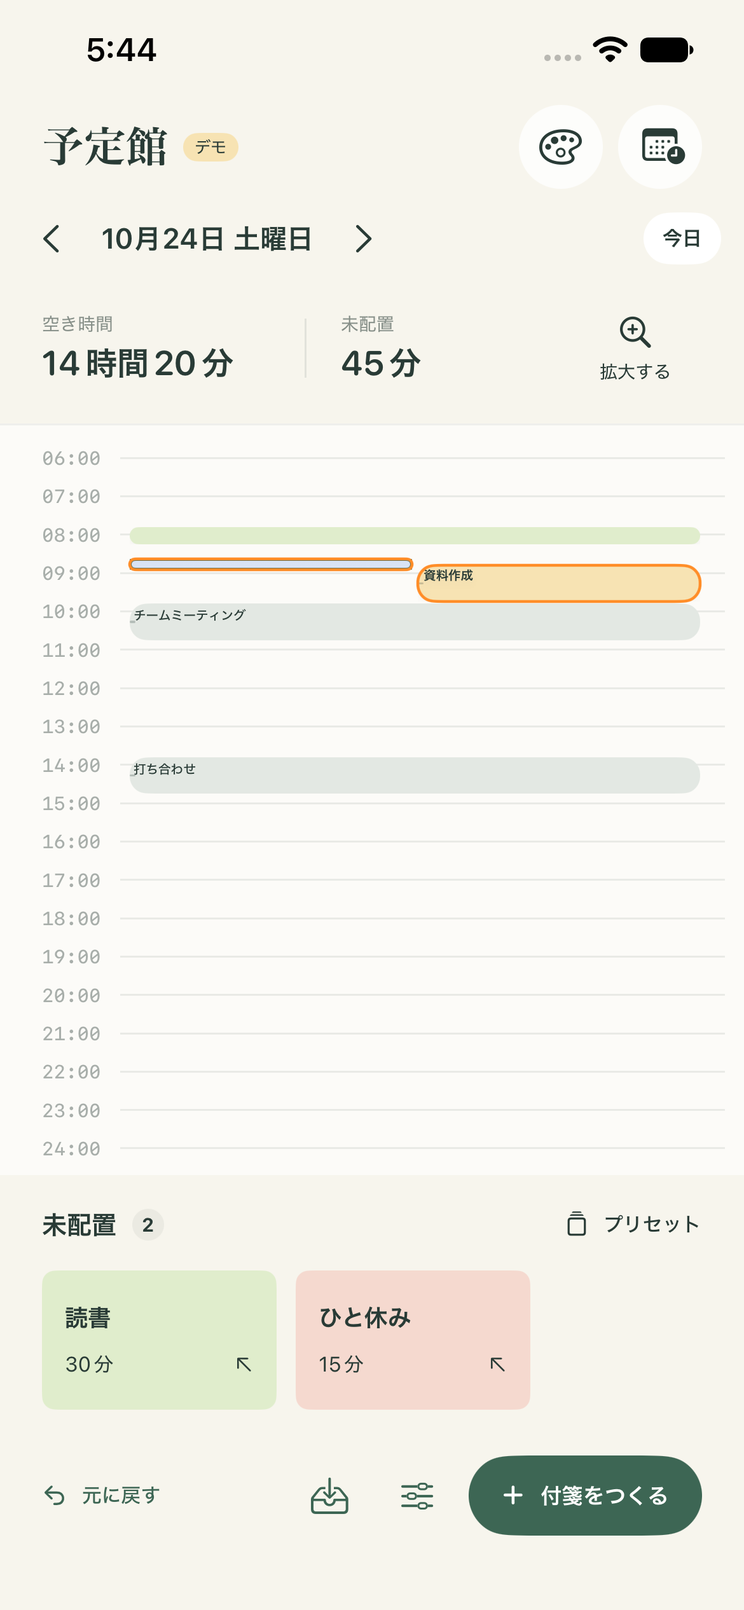
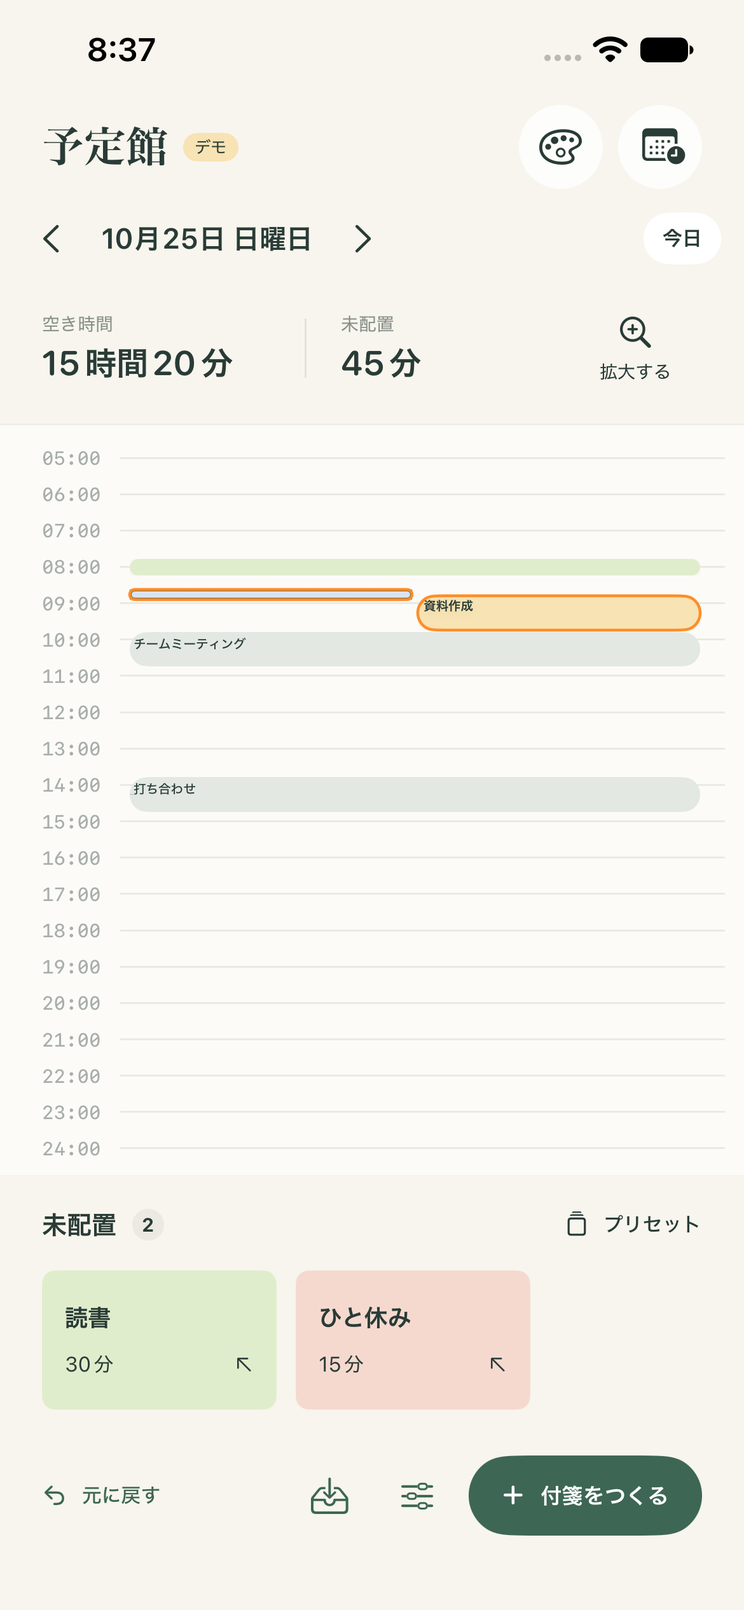
Extend daily planning range to 5 AM through midnight (#5)

diff --git a/docs/screenshots/index.html b/docs/screenshots/index.html
@@ -1,1 +1,1 @@
-<!doctype html><html lang="ja"><meta charset="utf-8"><meta name="viewport" content="width=device-width,initial-scale=1"><title>予定館・実機能確認</title><style>body{background:#f7f5ed;color:#293b35;font:15px system-ui;margin:32px}h1{font-size:24px}.grid{display:grid;grid-template-columns:repeat(auto-fit,minmax(240px,1fr));gap:28px}figure{margin:0}img{width:100%;max-width:390px;border-radius:24px;box-shadow:0 8px 32px #293b3520}figcaption{margin:12px 0 20px}p{line-height:1.8}</style><h1>予定館 / シミュレーター動作確認</h1><p>iPhone 17e・iOS 27。XCTestで実際に操作した画面です。デモ表記のある画面はサンプル予定、カレンダー画面はシミュレーターのEventKitに登録した検証用予定を使用しています。</p><div class="grid"><figure><a href="01-day-planner.png"><img src="01-day-planner.png" alt="01-day-planner"></a><figcaption>01-day-planner</figcaption></figure><figure><a href="02-presets.png"><img src="02-presets.png" alt="02-presets"></a><figcaption>02-presets</figcaption></figure><figure><a href="03-sticky-editor.png"><img src="03-sticky-editor.png" alt="03-sticky-editor"></a><figcaption>03-sticky-editor</figcaption></figure><figure><a href="04-overlap-after-drag.png"><img src="04-overlap-after-drag.png" alt="04-overlap-after-drag"></a><figcaption>04-overlap-after-drag</figcaption></figure><figure><a href="05-resize-overlap.png"><img src="05-resize-overlap.png" alt="05-resize-overlap"></a><figcaption>05-resize-overlap</figcaption></figure><figure><a href="06-day-overview.png"><img src="06-day-overview.png" alt="06-day-overview"></a><figcaption>06-day-overview</figcaption></figure><figure><a href="07-calendar-settings.png"><img src="07-calendar-settings.png" alt="07-calendar-settings"></a><figcaption>07-calendar-settings</figcaption></figure><figure><a href="08-real-calendar-events.png"><img src="08-real-calendar-events.png" alt="08-real-calendar-events"></a><figcaption>08-real-calendar-events</figcaption></figure><figure><a href="09-start-time-drag.png"><img src="09-start-time-drag.png" alt="09-start-time-drag"></a><figcaption>09-start-time-drag</figcaption></figure><figure><a href="10-swipe-next-day.png"><img src="10-swipe-next-day.png" alt="10-swipe-next-day"></a><figcaption>10-swipe-next-day</figcaption></figure><figure><a href="11-color-settings.png"><img src="11-color-settings.png" alt="11-color-settings"></a><figcaption>11-color-settings</figcaption></figure><figure><a href="12-named-color-picker.png"><img src="12-named-color-picker.png" alt="12-named-color-picker"></a><figcaption>12-named-color-picker</figcaption></figure><figure><a href="13-custom-colors.png"><img src="13-custom-colors.png" alt="13-custom-colors"></a><figcaption>13-custom-colors</figcaption></figure><figure><a href="14-expanded-color-picker.png"><img src="14-expanded-color-picker.png" alt="14-expanded-color-picker"></a><figcaption>14-expanded-color-picker</figcaption></figure></div></html>
+<!doctype html><html lang="ja"><meta charset="utf-8"><meta name="viewport" content="width=device-width,initial-scale=1"><title>予定館・実機能確認</title><style>body{background:#f7f5ed;color:#293b35;font:15px system-ui;margin:32px}h1{font-size:24px}.grid{display:grid;grid-template-columns:repeat(auto-fit,minmax(240px,1fr));gap:28px}figure{margin:0}img{width:100%;max-width:390px;border-radius:24px;box-shadow:0 8px 32px #293b3520}figcaption{margin:12px 0 20px}p{line-height:1.8}</style><h1>予定館 / シミュレーター動作確認</h1><p>iPhone 17e・iOS 27。XCTestで実際に操作した画面です。デモ表記のある画面はサンプル予定、カレンダー画面はシミュレーターのEventKitに登録した検証用予定を使用しています。</p><div class="grid"><figure><a href="01-day-planner.png"><img src="01-day-planner.png" alt="01-day-planner"></a><figcaption>01-day-planner</figcaption></figure><figure><a href="02-presets.png"><img src="02-presets.png" alt="02-presets"></a><figcaption>02-presets</figcaption></figure><figure><a href="03-sticky-editor.png"><img src="03-sticky-editor.png" alt="03-sticky-editor"></a><figcaption>03-sticky-editor</figcaption></figure><figure><a href="04-overlap-after-drag.png"><img src="04-overlap-after-drag.png" alt="04-overlap-after-drag"></a><figcaption>04-overlap-after-drag</figcaption></figure><figure><a href="05-resize-overlap.png"><img src="05-resize-overlap.png" alt="05-resize-overlap"></a><figcaption>05-resize-overlap</figcaption></figure><figure><a href="06-day-overview.png"><img src="06-day-overview.png" alt="06-day-overview"></a><figcaption>06-day-overview</figcaption></figure><figure><a href="07-calendar-settings.png"><img src="07-calendar-settings.png" alt="07-calendar-settings"></a><figcaption>07-calendar-settings</figcaption></figure><figure><a href="08-real-calendar-events.png"><img src="08-real-calendar-events.png" alt="08-real-calendar-events"></a><figcaption>08-real-calendar-events</figcaption></figure><figure><a href="09-start-time-drag.png"><img src="09-start-time-drag.png" alt="09-start-time-drag"></a><figcaption>09-start-time-drag</figcaption></figure><figure><a href="10-swipe-next-day.png"><img src="10-swipe-next-day.png" alt="10-swipe-next-day"></a><figcaption>10-swipe-next-day</figcaption></figure><figure><a href="11-color-settings.png"><img src="11-color-settings.png" alt="11-color-settings"></a><figcaption>11-color-settings</figcaption></figure><figure><a href="12-named-color-picker.png"><img src="12-named-color-picker.png" alt="12-named-color-picker"></a><figcaption>12-named-color-picker</figcaption></figure><figure><a href="13-custom-colors.png"><img src="13-custom-colors.png" alt="13-custom-colors"></a><figcaption>13-custom-colors</figcaption></figure><figure><a href="14-expanded-color-picker.png"><img src="14-expanded-color-picker.png" alt="14-expanded-color-picker"></a><figcaption>14-expanded-color-picker</figcaption></figure><figure><a href="15-five-am-plan.png"><img src="15-five-am-plan.png" alt="15-five-am-plan"></a><figcaption>15-five-am-plan</figcaption></figure></div></html>

diff --git a/ios/Yoteikan/PlannerView.swift b/ios/Yoteikan/PlannerView.swift
@@ -22,7 +22,7 @@ struct PlannerView: View {
     @State private var touchTask: UUID?
     @State private var inboxFrame = CGRect.zero
     @State private var returningToInbox = false
-    private var scale: CGFloat { overview ? max(0.15, (viewportHeight - 32) / 1080) : 1.55 }
+    private var scale: CGFloat { overview ? max(0.15, (viewportHeight - 32) / CGFloat(PlannerMath.totalMinutes)) : 1.55 }
     private var fixed: [FixedEvent] {
         if plans.demo, dayKey(plans.date) == dayKey(Date()) {
             return [FixedEvent(id: "demo1", title: "チームミーティング", start: 600, end: 660), FixedEvent(id: "demo2", title: "打ち合わせ", start: 840, end: 900)]
@@ -93,7 +93,7 @@ struct PlannerView: View {
     }
     private var stats: some View {
         HStack(spacing: 0) {
-            stat("空き時間", durationText(1080 - occupied))
+            stat("空き時間", durationText(PlannerMath.totalMinutes - occupied))
             Rectangle().fill(ink.opacity(0.10)).frame(width: 1, height: 31)
             stat("未配置", durationText(inbox.reduce(0) { $0 + $1.minutes }))
             Spacer(minLength: 0)
@@ -109,7 +109,7 @@ struct PlannerView: View {
                 GeometryReader { geometry in
                     ZStack(alignment: .topLeading) {
                         VStack(spacing: 0) {
-                        ForEach(6...24, id: \.self) { hour in
+                        ForEach((PlannerMath.first / 60)...(PlannerMath.last / 60), id: \.self) { hour in
                             HStack(alignment: .center, spacing: 10) { Text(String(format: "%02d:00", hour)).font(.system(size: 10, weight: .medium, design: .monospaced)).foregroundStyle(ink.opacity(0.4)).frame(width: 43, alignment: .trailing); Rectangle().fill(ink.opacity(0.09)).frame(height: 1) }.frame(height: 60 * scale, alignment: .top).id(hour)
                         }
                         }.contentShape(Rectangle()).simultaneousGesture(daySwipeGesture)
@@ -163,7 +163,7 @@ struct PlannerView: View {
                 }.frame(height: CGFloat(PlannerMath.last - PlannerMath.first) * scale + 18).padding(.top, 12).padding(.horizontal, 10)
             }.accessibilityIdentifier("timeline")
                 .task { await Task.yield(); reader.scrollTo(8, anchor: .top) }
-                .onChange(of: overview) { _, value in reader.scrollTo(value ? 6 : 8, anchor: .top) }
+                .onChange(of: overview) { _, value in reader.scrollTo(value ? PlannerMath.first / 60 : 8, anchor: .top) }
                 .onChange(of: plans.date) { _, _ in reader.scrollTo(8, anchor: .top) }
         }
         .background(.white.opacity(0.62))

diff --git a/ios/YoteikanUITests/YoteikanUITests.swift b/ios/YoteikanUITests/YoteikanUITests.swift
@@ -288,6 +288,37 @@ final class YoteikanUITests: XCTestCase {
         XCTAssertFalse(app.buttons["color-4"].exists)
         XCTAssertEqual(app.buttons["color-1"].value as? String, "選択中")
     }
+    func test14PlanAtFiveAMAndKeepMidnightBoundary() {
+        launch(["--reset-test-data"])
+        app.buttons["newStickyButton"].tap()
+        app.textFields["stickyTitle"].tap()
+        app.textFields["stickyTitle"].typeText("早朝の読書")
+        app.buttons["saveSticky"].tap()
+        let timeline = app.scrollViews["timeline"]
+        let upper = timeline.coordinate(withNormalizedOffset: CGVector(dx: 0.08, dy: 0.2))
+        let lower = timeline.coordinate(withNormalizedOffset: CGVector(dx: 0.08, dy: 0.9))
+        upper.press(forDuration: 0.01, thenDragTo: lower)
+        let firstHour = app.staticTexts["05:00"]
+        XCTAssertTrue(firstHour.waitForExistence(timeout: 3))
+        XCTAssertTrue(firstHour.isHittable)
+        let target = timeline.coordinate(withNormalizedOffset: CGVector(dx: 0.6, dy: 0))
+            .withOffset(CGVector(dx: 0, dy: firstHour.frame.minY - timeline.frame.minY + 1))
+        let inbox = app.descendants(matching: .any).matching(identifier: "inbox-早朝の読書").firstMatch
+        inbox.coordinate(withNormalizedOffset: CGVector(dx: 0.5, dy: 0.5)).press(forDuration: 0.7, thenDragTo: target)
+        let task = app.otherElements["task-早朝の読書"]
+        XCTAssertTrue(task.waitForExistence(timeout: 3))
+        XCTAssertEqual(task.value as? String, "05:00|30")
+        app.buttons["zoomToggle"].tap()
+        XCTAssertTrue(app.staticTexts["05:00"].isHittable)
+        XCTAssertTrue(app.staticTexts["24:00"].isHittable)
+        shot("15-five-am-plan")
+        app.terminate(); launch([])
+        app.buttons["zoomToggle"].tap()
+        XCTAssertEqual(app.otherElements["task-早朝の読書"].value as? String, "05:00|30")
+        app.otherElements["task-早朝の読書"].tap()
+        app.buttons["editButton"].tap()
+        XCTAssertTrue(app.staticTexts["5:00〜24:00"].exists)
+    }
     func test11VerticalScrollAndInboxSwipeKeepDate() {
         launch()
         let date = app.staticTexts["selectedDate"].label

diff --git a/ios/YoteikanTests/PlanTests.swift b/ios/YoteikanTests/PlanTests.swift
@@ -108,13 +108,40 @@ import XCTest
     func testSnappingBoundsAndOverlapUnion() {
         XCTAssertEqual(PlannerMath.snap(608), 610)
         XCTAssertEqual(PlannerMath.start(1430, duration: 30), 1410)
-        XCTAssertEqual(PlannerMath.start(100, duration: 30), 360)
+        XCTAssertEqual(PlannerMath.start(100, duration: 30), 300)
         XCTAssertEqual(PlannerMath.duration(60, start: 1420), 20)
         XCTAssertEqual(PlannerMath.duration(-10, start: 600), 5)
         XCTAssertFalse(PlannerMath.overlaps(600, 630, 630, 660))
         XCTAssertTrue(PlannerMath.overlaps(600, 640, 630, 660))
         XCTAssertEqual(PlannerMath.occupied([(600, 660), (630, 700), (700, 720)]), 120)
-        XCTAssertEqual(PlannerMath.occupied([(0, 500), (1400, 1600)]), 180)
+        XCTAssertEqual(PlannerMath.occupied([(0, 500), (1400, 1600)]), 240)
+    }
+
+    func testFiveAMPlacementBoundsPersistenceAndUndo() {
+        let store = PlanStore(defaults: defaults)
+        store.add(Preset(title: "早朝の読書", minutes: 30))
+        let id = store.today[0].id
+        store.put(id, at: 300)
+        XCTAssertEqual(store.today[0].start, 300)
+        store.move(id, start: 240)
+        XCTAssertEqual(store.today[0].start, 300)
+        store.move(id, start: 1435)
+        XCTAssertEqual(store.today[0].start, 1410)
+        store.restore()
+        XCTAssertEqual(store.today[0].start, 300)
+        XCTAssertEqual(PlanStore(defaults: defaults).today[0].start, 300)
+        store.resize(id, minutes: 60)
+        XCTAssertEqual(store.today[0].start, 300)
+        XCTAssertEqual(store.today[0].minutes, 60)
+    }
+
+    func testPlanningRangeIncludesEarlyCalendarTimeAndEndsAtMidnight() {
+        XCTAssertEqual(PlannerMath.totalMinutes, 19 * 60)
+        XCTAssertEqual(PlannerMath.occupied([]), 0)
+        XCTAssertEqual(PlannerMath.occupied([(270, 330), (315, 360), (1430, 1500)]), 70)
+        XCTAssertEqual(PlannerMath.totalMinutes - PlannerMath.occupied([(300, 330)]), 1110)
+        XCTAssertEqual(PlannerMath.duration(60, start: 1420), 20)
+        XCTAssertEqual(PlannerMath.start(300, duration: 720), 300)
     }
 
     func testOverlapColumnsCoverTransitiveGroupsAndReuseLanes() {

diff --git a/ios/Yoteikan/Editors.swift b/ios/Yoteikan/Editors.swift
@@ -21,7 +21,7 @@ struct StickyEditor: View {
                 Section {
                     Toggle("開始時刻を指定", isOn: $placed).accessibilityIdentifier("placeToggle")
                     if placed { DatePicker("開始", selection: $startTime, displayedComponents: .hourAndMinute).environment(\.locale, Locale(identifier: "ja_JP")) }
-                } footer: { Text("6:00〜24:00") }
+                } footer: { Text("\(PlannerMath.first / 60):00〜\(PlannerMath.last / 60):00") }
                 Section("メモ") { TextField("任意", text: $task.memo, axis: .vertical).lineLimit(3...5).accessibilityIdentifier("stickyMemo") }
                 if isNew { Section { Toggle("プリセットにも保存", isOn: $saveAsPreset) } }
                 if !isNew {

diff --git a/ios/Yoteikan/Models.swift b/ios/Yoteikan/Models.swift
@@ -105,8 +105,9 @@ struct TimelineSlot {
     let columns: Int
 }
 enum PlannerMath {
-    static let first = 6 * 60
+    static let first = 5 * 60
     static let last = 24 * 60
+    static let totalMinutes = last - first
     // Partition each connected overlap group into independent, consistent columns.
     static func layout(_ items: [TimelineItem]) -> [String: TimelineSlot] {
         let sorted = items.sorted { $0.start == $1.start ? $0.id < $1.id : $0.start < $1.start }

diff --git a/docs/verification.md b/docs/verification.md
@@ -1,8 +1,20 @@
 # 動作確認
 
-2026年10月24日。iPhone 17eシミュレーター / iOS 27.0で確認しました。
+2026年10月25日。iPhone 17eシミュレーター / iOS 27.0で確認しました。
 
-色の管理機能追加後、ユニットテスト11件・UI操作テスト13件の計24件がすべて成功しました。スクリーンショット抽出・一覧作成ツールはGoで実装しています。Pythonへの依存はありません。
+Issue #5の改善後、ユニットテスト13件・UI操作テスト14件の計27件の成功を確認しました（早朝配置テストの再実行を含む）。スクリーンショット抽出・一覧作成ツールはGoで実装しています。Pythonへの依存はありません。
+
+## Issue #5：時間の範囲を5:00〜24:00へ変更
+
+[Issue #5](https://github.com/sfujibijutsukan/yoteikan/issues/5)は、色の管理機能までを引き継いだ codex/issue-5-planning-hours ブランチで対応しました。
+
+- 時間軸の開始を5:00に変更し、終了の24:00を維持。
+- 1日全体の表示と空き時間の計算を19時間分へ変更。編集画面の範囲表示も統一。
+- 5:00へ付箋を配置し、再起動後の保持とUndoを確認。
+- 5:00より前へ動かした場合の補正、24:00を超えない終了境界、早朝のカレンダー予定を含む時間計算を確認。
+- 1日全体で05:00と24:00が見えることを確認し、早朝へ配置した画面を撮影。
+
+全体実行では26件成功。追加した早朝配置のテストは縮小表示のドラッグ位置が05:05となったため、通常の拡大表示で05:00へ配置する操作に調整し、再実行で成功しました。アプリの実装変更は不要でした。
 
 ## 色と名前の追加・編集・削除
 
@@ -78,7 +90,7 @@
 | 日付の切り替え | その日だけの付箋を表示 |
 | カレンダーから固定予定と終日予定を読み込む | 成功。EventKitに登録した検証用予定で確認 |
 | 表示対象のカレンダーをオン・オフ | 予定の表示・非表示に反映 |
-| 1日全体の表示 | 6:00〜24:00を一覧表示 |
+| 1日全体の表示 | 5:00〜24:00を一覧表示 |
 
 カレンダーのアクセス許可操作もシミュレーターで確認しました。通常動作は読み込み専用です。シミュレーター限定のテスト用処理で「予定館・動作確認用」カレンダーと検証用予定を作成しています。デモ表示のある画面はサンプル計画です。
 
@@ -100,13 +112,14 @@
 12. [名前付きの色選択](screenshots/12-named-color-picker.png)
 13. [色を追加・編集](screenshots/13-custom-colors.png)
 14. [追加した色を選択](screenshots/14-expanded-color-picker.png)
+15. [5:00からの計画](screenshots/15-five-am-plan.png)
 
 ## 検証結果の記録
 
-- [テスト結果の抜粋](test-results.txt)：ユニットテスト11件・UI操作テスト13件の計24件が成功。最新の結果は artifacts/PaletteFinal.xcresult と artifacts/palette-final.log に保存。
+- [テスト結果の抜粋](test-results.txt)：ユニットテスト13件・UI操作テスト14件の計27件が成功（再実行を含む）。全体実行は artifacts/Issue5Validation.xcresult / artifacts/issue-5-validation.log、早朝配置の再確認は artifacts/Issue5EarlyPlacement.xcresult / artifacts/issue-5-early-placement.log に保存。
 - 色の追加・削除テストを再実行し、保存済みの付箋で5色目の選択を確認。キーボードを閉じた画面を撮影し直しました。結果は artifacts/PaletteScreenshots.xcresult と artifacts/palette-screenshots.log。
 - 日付境界の追加確認：artifacts/Issue3CalendarVerified.xcresult と artifacts/issue-3-calendar-verified.log。カレンダー関連の3件が成功。
 - 元のログとXcode結果バンドルはローカルの artifacts/ に保存。生成物のためGit管理対象外。
 - [開発・検証手順](development.md)に、テスト実行とスクリーンショット生成の再現手順を記載。
 
-実機へのインストール、TestFlight・App Store配布は未実施です。実機でのカレンダー連携や指での操作感は、次の確認項目です。初期版の計画範囲は6:00〜24:00、5分単位です。データは端末内に保存し、同期・通知・カレンダーへの書き出しは含みません。
+実機へのインストール、TestFlight・App Store配布は未実施です。実機でのカレンダー連携や指での操作感は、次の確認項目です。計画範囲は5:00〜24:00、5分単位です。データは端末内に保存し、同期・通知・カレンダーへの書き出しは含みません。

diff --git a/docs/design.md b/docs/design.md
@@ -15,7 +15,7 @@
 | 領域 | 内容 |
 |---|---|
 | ヘッダー | 色の名前設定、カレンダー設定、日付切り替え、今日へ戻る |
-| 計画の目安 | 6:00〜24:00の空き時間と、未配置付箋の合計時間・枚数 |
+| 計画の目安 | 5:00〜24:00の空き時間と、未配置付箋の合計時間・枚数 |
 | 終日予定 | 時間割の上部に表示し、空き時間は減らさない |
 | タイムライン | 固定予定と配置済み付箋。付箋の高さで所要時間を表す |
 | 未配置エリア | 今日やる付箋。プリセット選択・新規作成につなぐ |
@@ -36,7 +36,9 @@
 | プリセットをタップ | その日向けの独立した付箋を追加 |
 | 日付欄・タイムラインの余白を左右スワイプ | 左で翌日、右で前日へ移動 |
 
-計画範囲は6:00〜24:00、移動・伸縮は5分刻み。付箋の所要時間は5〜720分で、終了時刻は24:00を超えない。範囲外の操作は境界へ補正する。
+計画範囲は5:00〜24:00、移動・伸縮は5分刻み。付箋の所要時間は5〜720分で、終了時刻は24:00を超えない。範囲外の操作は境界へ補正する。
+
+時間軸、1日全体の縮尺、空き時間、編集画面の範囲表示はPlannerMathの開始・終了時刻を共通で参照する。対象の19時間から、範囲内の付箋と固定予定が占める時間を重複なく差し引く。5:00より前に始まるカレンダー予定も、5:00以降の部分を表示・集計する。
 
 重なる予定は連続して重なり合うグループに分け、グループ内で列を割り当てる。重なった付箋には枠線を付け、並列の配置で関係を示す。読み上げ用にも重なりのヒントを付ける。空き時間の計算は、重複した時間を二重に差し引かない。
 

diff --git a/README.md b/README.md
@@ -39,7 +39,7 @@ macOSと、iOS 17以降をビルドできるXcodeが必要です。
 
 右上のパレットで、色と名前を追加・編集できます。色はカラーピッカーまたは6桁のカラーコードで指定します。削除するときは付け替え先を選び、保存すると全日付の付箋・プリセットに反映されます。最後の1色は削除できません。キャンセルで編集を破棄し、「元に戻す」で保存前に戻せます。付箋の内容や時間は保持されます。
 
-計画範囲は6:00〜24:00、時間は5分刻みです。カレンダーの固定予定は、このアプリから変更できません。
+計画範囲は5:00〜24:00、時間は5分刻みです。カレンダーの固定予定は、このアプリから変更できません。
 
 ## ドキュメント
 
@@ -49,8 +49,8 @@ macOSと、iOS 17以降をビルドできるXcodeが必要です。
 | [アプリ設計](docs/design.md) | 仕様、データモデル、画面構成、カレンダー権限、初期版の範囲 |
 | [開発・検証手順](docs/development.md) | 技術構成、ビルド・テスト、Goによるスクショ出力、テスト用の起動引数 |
 | [動作確認](docs/verification.md) | 確認した操作、検証環境、実機で未確認の項目 |
-| [スクリーンショット14枚](docs/screenshots/README.md) | 実際に操作して取得した画面 |
-| [テスト結果の抜粋](docs/test-results.txt) | 色の管理機能追加後の全24件成功の記録 |
+| [スクリーンショット15枚](docs/screenshots/README.md) | 実際に操作して取得した画面 |
+| [テスト結果の抜粋](docs/test-results.txt) | Issue #5改善後の全27件成功の記録 |
 
 ## 技術構成
 

diff --git a/docs/screenshots/README.md b/docs/screenshots/README.md
@@ -1,8 +1,8 @@
 # スクリーンショット
 
-iPhone 17eシミュレーター / iOS 27.0でXCTestを使って実際に操作し、2026年10月24日に撮影しました。デモ表記付きの画面はサンプル計画、カレンダー画面はEventKitに登録した検証用予定です。
+iPhone 17eシミュレーター / iOS 27.0でXCTestを使って実際に操作し、2026年10月25日に撮影しました。デモ表記付きの画面はサンプル計画、カレンダー画面はEventKitに登録した検証用予定です。
 
-Issue #4の色名設定・名前付きの色選択に対応した画面です。Issue #1の移動つまみ、Issue #2の表示整理、Issue #3の日付スワイプも含みます。
+Issue #5の5:00〜24:00の計画に対応した画面です。移動つまみ、表示整理、日付スワイプ、名前付きの色選択、色の追加・編集・削除も含みます。
 
 ## 1日の計画
 
@@ -67,3 +67,9 @@ Issue #4の色名設定・名前付きの色選択に対応した画面です。
 ## 追加した色を付箋で選択
 
 <img src="14-expanded-color-picker.png" width="300" alt="5色を折り返して表示する色の選択画面">
+
+## 5:00からの計画
+
+5:00〜24:00の1日表示で、早朝の読書を05:00へ配置した画面です。Issue #5の変更後、2026年10月25日に撮影しました。
+
+<img src="15-five-am-plan.png" width="300" alt="5時から24時の時間軸で早朝の読書を配置">

diff --git a/docs/development.md b/docs/development.md
@@ -56,6 +56,8 @@ Issue #4では、ユニットテストで旧データの読み込み、色名の
 
 ## スクリーンショット出力
 
+Issue #5では、5:00への配置と保存・Undo、5:00より前への移動制限、24:00の終了境界、早朝の固定予定を含む空き時間の計算を確認する。UIテストでは1日全体に05:00と24:00が表示され、付箋を05:00へドラッグで配置できること、再起動後も時刻が保持されることを確認する。
+
 色の管理機能では、旧データの移行、色の追加・編集・削除、全日付・プリセットへの付け替え、Undo、最後の1色、入力検証と濃い色の文字色をユニットテストで確認する。UIテストは5色目を追加し、名前とRGBを編集、付箋とプリセットに使用後、「仕事」へ付け替えて削除し、再起動後にも反映されることを確認する。
 
 ```sh
